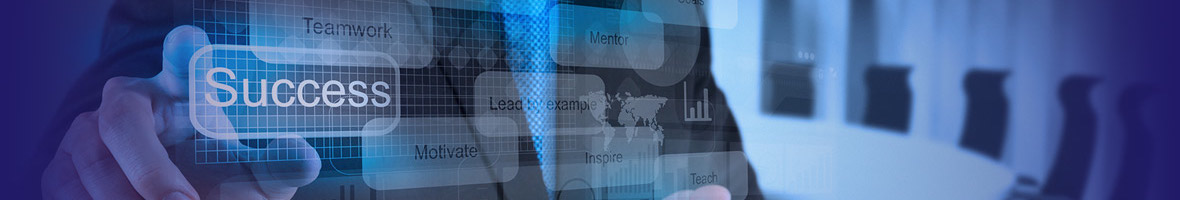
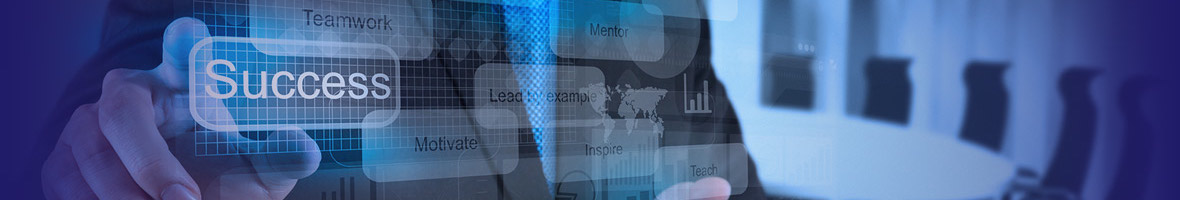
New pictures

diff --git a/footer.php b/footer.php
@@ -36,6 +36,17 @@ function epm_footer() {
           $('.global-nav').addClass('open');
         }
       });
+      function changeBg() {
+        $('[data-bg]').each(function (elem) {
+          var small = '';
+          if ($(window).width() <= 590) {
+            small = '-small';
+          }
+          $(this).css('background-image', 'url(/img/bg'+small+'/' + $(this).attr('data-bg') + ')');
+        });
+      }
+      window.onresize = changeBg;
+      changeBg();
     });
     </script>
   </body>

diff --git a/leistung.php b/leistung.php
@@ -12,7 +12,7 @@ function epm_leistung_header($type) {
     'page-title' => 'Leistung - ' . ucfirst($type)
   )); 
 ?>
-      <div class="global-banner banner-small" style="background-image:url(img/bg/<?php echo $type ?>.jpg);">
+      <div class="global-banner banner-small" data-bg="<?php echo $type ?>.jpg">
         <div class="container banner-container">
           <div class="row">
             <div class="col-sm-6 col-sm-offset-6 banner-content">

diff --git a/unternehmen.php b/unternehmen.php
@@ -3,7 +3,7 @@
   'active' => 'unternehmen',
   'page-title' => 'Unternehmen'
 )); ?>
-      <div class="global-banner banner-small" style="background-image:url(img/bg/landing-page.jpg);">
+      <div class="global-banner banner-small" data-bg="landing-page.jpg">
         <div class="container banner-container">
           <div class="row">
             <div class="col-sm-6 col-sm-offset-6 banner-content">

diff --git a/leadership.php b/leadership.php
@@ -3,7 +3,7 @@
   'active' => 'leadership',
   'page-title' => 'Leadership'
 )); ?>
-      <div class="global-banner banner-small" style="background-image:url(img/bg/landing-page.jpg);">
+      <div class="global-banner banner-small" data-bg="landing-page.jpg">
         <div class="container banner-container">
           <div class="row">
             <div class="col-sm-6 col-sm-offset-6 banner-content">

diff --git a/kontakt.php b/kontakt.php
@@ -3,7 +3,7 @@
   'active' => 'kontakt',
   'page-title' => 'Kontakt'
 )); ?>
-      <div class="global-banner banner-small" style="background-image:url(img/bg/kontakt.jpg);">
+      <div class="global-banner banner-small" data-bg="kontakt.jpg">
         <div class="container banner-container">
           <div class="row">
             <div class="col-sm-6 col-sm-offset-6 banner-content">

diff --git a/vorgehensweise.php b/vorgehensweise.php
@@ -3,7 +3,7 @@
   'active' => 'leistung',
   'page-title' => 'Vorgehensweise'
 )); ?>
-      <div class="global-banner banner-small" style="background-image:url(img/car-bg.jpg);">
+      <div class="global-banner banner-small" data-bg="car.jpg">
         <div class="container banner-container">
           <div class="row">
             <div class="col-sm-6 col-sm-offset-6 banner-content">

diff --git a/jobs.php b/jobs.php
@@ -3,7 +3,7 @@
   'active' => 'jobs',
   'page-title' => 'Jobs'
 )); ?>
-      <div class="global-banner banner-small" style="background-image:url(img/bg/jobs.jpg);">
+      <div class="global-banner banner-small" data-bg="jobs.jpg">
         <div class="container banner-container">
           <div class="row">
             <div class="col-sm-6 col-sm-offset-6 banner-content">

diff --git a/index.php b/index.php
@@ -2,7 +2,7 @@
 <?php epm_header(array(
   'active' => 'home'
 )); ?>
-      <div class="global-banner" style="background-image:url(img/car-bg.jpg);">
+      <div class="global-banner" data-bg="car.jpg">
         <div class="container banner-container">
           <div class="row">
             <div class="col-sm-6 col-sm-offset-6 banner-content">
